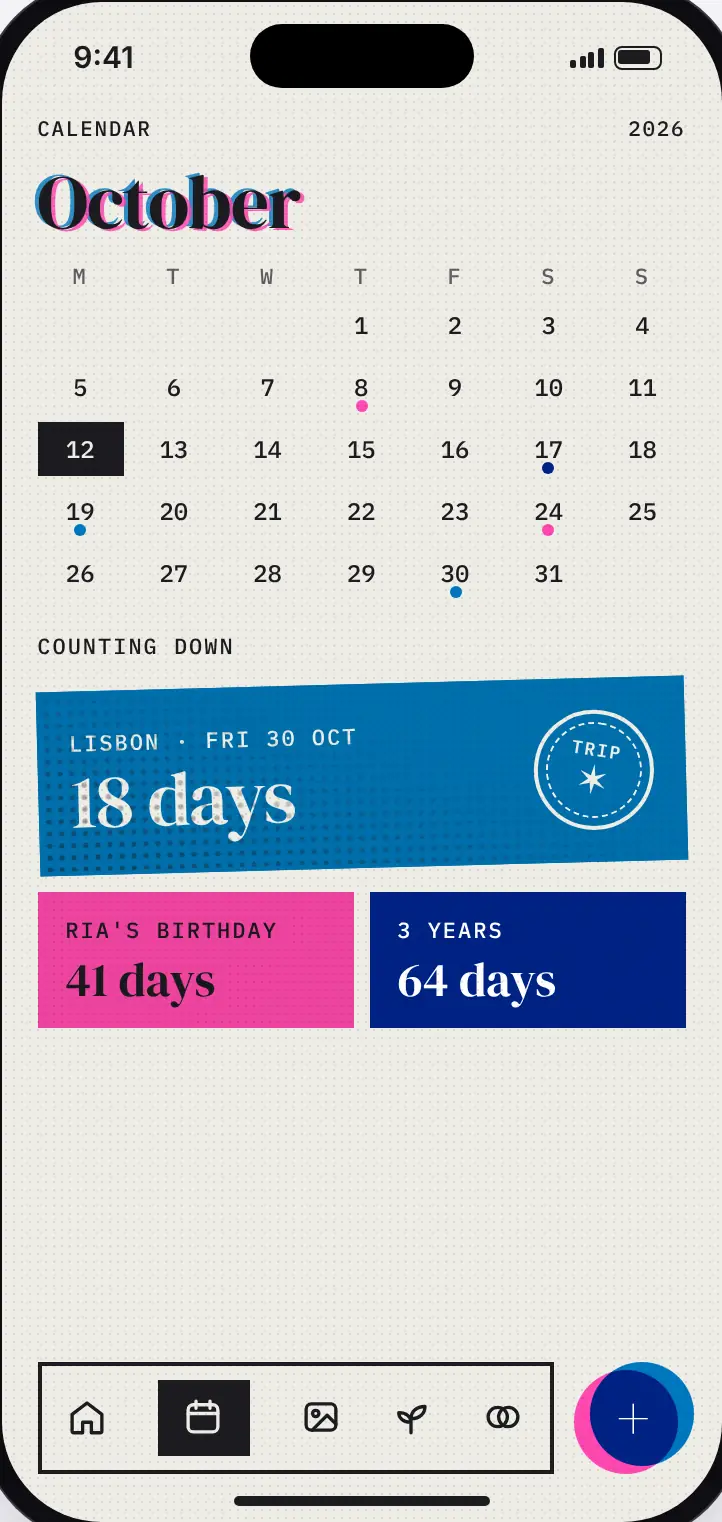
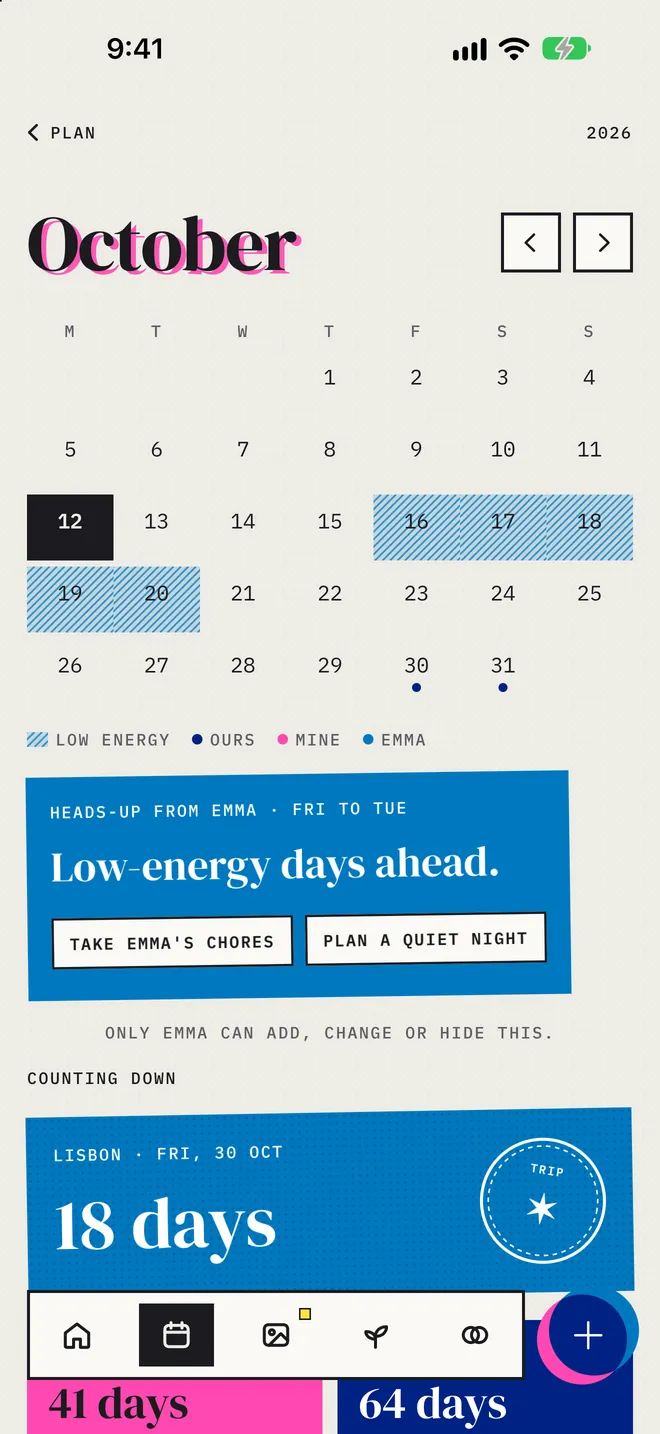
Use real app screenshots
Replaces the mock screens with real app captures (Jake & Emma), drops
the 'Screens from the design' label and the screens that had no real
capture yet, renames the example couple to match, and regenerates the
social image.

Claude-Session: https://claude.ai/code/session_01V7NwzhAa3YHPEejGS6mrdA

diff --git a/index.html b/index.html
@@ -22,7 +22,7 @@
 <link rel="preconnect" href="https://fonts.googleapis.com">
 <link rel="preconnect" href="https://fonts.gstatic.com" crossorigin>
 <link rel="stylesheet" href="https://fonts.googleapis.com/css2?family=DM+Serif+Display:ital@0;1&family=IBM+Plex+Mono:wght@400;500;600&family=Instrument+Sans:wght@400;600&display=swap">
-<link rel="stylesheet" href="styles.css?v=662350d4">
+<link rel="stylesheet" href="styles.css?v=6be5bd44">
 <script>try{var t=localStorage.getItem('pic-theme');if(t==='light'||t==='dark')document.documentElement.dataset.theme=t}catch(e){}</script>
 <script type="application/ld+json">
 {"@context":"https://schema.org","@type":"SoftwareApplication","name":"Partner in Crimes","operatingSystem":"iOS 17 or later","applicationCategory":"LifestyleApplication","description":"An iPhone app for two people building habits together."}
@@ -206,22 +206,15 @@
       <svg class="hero__blob hero__blob--a" aria-hidden="true"><use href="#blob1"/></svg>
       <svg class="hero__blob hero__blob--b" aria-hidden="true"><use href="#blob2"/></svg>
       <figure class="phone phone--back">
-        <picture>
-          <source srcset="img/water-dark.webp" media="(prefers-color-scheme: dark)" data-dark-src>
-          <img src="img/water.webp" alt="" width="722" height="1522">
-        </picture>
+        <img src="img/water.webp" alt="" width="660" height="1434">
       </figure>
       <figure class="phone phone--hero">
         <span class="tape" aria-hidden="true"></span>
-        <picture>
-          <source srcset="img/home-dark.webp" media="(prefers-color-scheme: dark)" data-dark-src>
-          <img src="img/home.webp" alt="Home screen: Jay's and Ria's tasks overlap in the middle, with shared water, today's list, a trip countdown, Biscuit the dog and tonight's wind-down" width="722" height="1522" fetchpriority="high">
-        </picture>
+        <img src="img/home.webp" alt="Home screen: Jake's and Emma's tasks overlap in the middle, with shared water, today's list and a Lisbon countdown" width="660" height="1434" fetchpriority="high">
       </figure>
-      <script>(function(){var t=document.documentElement.dataset.theme;if(!t)return;document.querySelectorAll('[data-dark-src]').forEach(function(s){s.media=t==='dark'?'all':'not all'})})()</script>
       <div class="hnote" aria-hidden="true">
         <svg class="hnote__blob"><use href="#blob2"/></svg>
-        <div><span class="hnote__lab">Nudge from Ria · 14:06</span><b>Sip something, you raisin.</b></div>
+        <div><span class="hnote__lab">Nudge from Emma · 14:06</span><b>Sip something, you raisin.</b></div>
       </div>
       <svg class="hero__plant" viewBox="0 0 120 120" aria-hidden="true"><use href="#pl-monstera"/></svg>
       <svg class="hero__pet" viewBox="0 0 120 120" aria-hidden="true"><use href="#pet-dog"/></svg>
@@ -230,7 +223,7 @@
 </section>
 
 <div class="ticker" aria-hidden="true"><div class="ticker__track" data-ticker>
-  <span>Ria nudged you</span><span>Drink up</span><span>Pothos is thirsty</span><span>Biscuit wants a walk</span><span>3 of 4 shared tasks done</span><span>Wind-down at 22:30</span>
+  <span>Emma nudged you</span><span>Drink up</span><span>Pothos is thirsty</span><span>Biscuit wants a walk</span><span>1 of 2 shared tasks done</span><span>Wind-down at 22:30</span>
 </div></div>
 
 <!-- WHY -->
@@ -308,18 +301,12 @@
     </header>
   </div>
   <div class="rail" data-rail tabindex="0" role="region" aria-label="App screens, scroll sideways">
-    <figure class="shot"><div class="phone"><img src="img/water.webp" alt="Water screen: a solid blue bottle filling to 3.1 of 5 litres, with each partner's amount" width="722" height="1522" loading="lazy"></div><figcaption><b>Water.</b> One bottle for both of you. One tap per sip.</figcaption></figure>
-    <figure class="shot"><div class="phone"><img src="img/plan.webp" alt="Day plan: a printed timetable of tasks coloured by whose they are" width="722" height="1522" loading="lazy"></div><figcaption><b>Plan.</b> Pink is yours, blue is theirs, midnight is both. Private tasks print grey.</figcaption></figure>
-    <figure class="shot"><div class="phone"><img src="img/calendar.webp" alt="Calendar with countdown tickets for a trip and a birthday" width="722" height="1522" loading="lazy"></div><figcaption><b>Countdowns.</b> Trips and birthdays, printed like tickets.</figcaption></figure>
-    <figure class="shot"><div class="phone"><img src="img/photos.webp" alt="Photo calendar with one small duotone photo per day" width="722" height="1522" loading="lazy"></div><figcaption><b>Moments.</b> A photo a day, printed as a duotone. Tap for the original.</figcaption></figure>
-    <figure class="shot"><div class="phone"><img src="img/hideout.webp" alt="The Hideout: a message board of notes in each partner's ink" width="722" height="1522" loading="lazy"></div><figcaption><b>The Hideout.</b> Your private board. Notes, photos and nudges.</figcaption></figure>
-    <figure class="shot"><div class="phone"><img src="img/flat.webp" alt="The flat: a printed room with a dog, a cat, a bird and plants" width="722" height="1522" loading="lazy"></div><figcaption><b>The flat.</b> Everyone you're keeping alive, in one room.</figcaption></figure>
-    <figure class="shot"><div class="phone"><img src="img/games.webp" alt="Games: scores in each partner's ink and a list of quick games" width="722" height="1522" loading="lazy"></div><figcaption><b>Games.</b> Quick ones, scored in your inks.</figcaption></figure>
-    <figure class="shot"><div class="phone"><img src="img/draw.webp" alt="Drawing board: one shared sheet with a heart and a squiggle" width="722" height="1522" loading="lazy"></div><figcaption><b>Drawing board.</b> One shared sheet a day.</figcaption></figure>
-    <figure class="shot"><div class="phone"><img src="img/know.webp" alt="Get to know you: a question card with answer choices" width="722" height="1522" loading="lazy"></div><figcaption><b>Get to know you.</b> A score in percent, never a grade.</figcaption></figure>
-    <figure class="shot"><div class="phone"><img src="img/activity.webp" alt="Activity: two overlapping step rings with a shared total" width="722" height="1522" loading="lazy"></div><figcaption><b>Steps.</b> Two rings. The overlap is the shared part.</figcaption></figure>
+    <figure class="shot"><div class="phone"><img src="img/water.webp" alt="Water screen: a solid blue bottle filling to 3.1 of 5 litres, with Jake's and Emma's amounts" width="660" height="1434" loading="lazy"></div><figcaption><b>Water.</b> One bottle for both of you. One tap per sip.</figcaption></figure>
+    <figure class="shot"><div class="phone"><img src="img/plan.webp" alt="Day plan: a timetable of tasks coloured by whose they are, with a private one in grey" width="660" height="1434" loading="lazy"></div><figcaption><b>Plan.</b> Pink is yours, blue is theirs, midnight is both. Private tasks print grey.</figcaption></figure>
+    <figure class="shot"><div class="phone"><img src="img/calendar.webp" alt="October calendar with a heads-up from Emma and a Lisbon countdown ticket" width="660" height="1434" loading="lazy"></div><figcaption><b>Countdowns.</b> Trips and birthdays, printed like tickets.</figcaption></figure>
+    <figure class="shot"><div class="phone"><img src="img/hideout.webp" alt="The Hideout: notes from Jake in pink and Emma in blue" width="660" height="1434" loading="lazy"></div><figcaption><b>The Hideout.</b> Your private board. Notes, photos and nudges.</figcaption></figure>
+    <figure class="shot"><div class="phone"><img src="img/thanks.webp" alt="Thank-you wall: sticky notes Jake and Emma left each other" width="660" height="1434" loading="lazy"></div><figcaption><b>Thank-you wall.</b> Small thanks, pinned where they'll see them.</figcaption></figure>
   </div>
-  <div class="wrap"><p class="note-small">Screens from the Partner in Crimes design. Names are examples.</p></div>
 </section>
 
 <!-- WORLD -->
@@ -338,7 +325,7 @@
       <li><svg viewBox="0 0 120 120" role="img" aria-label="Goldie, a goldfish"><use href="#pet-fish"/></svg><b>Goldie</b><span>Goldfish</span></li>
     </ul>
     <div class="world__row">
-      <figure class="phone phone--world" data-par="0.07"><img src="img/pet.webp" alt="Biscuit's page: a portrait, a mood stamp, four needs bars and care buttons" width="722" height="1522" loading="lazy"></figure>
+      <figure class="phone phone--world" data-par="0.07"><img src="img/pet.webp" alt="Biscuit's page: a portrait, a mood stamp, four needs bars and care buttons" width="660" height="1434" loading="lazy"></figure>
       <div class="plants">
         <p class="lab">Plus ten plants</p>
         <div class="plants__row">
@@ -348,7 +335,7 @@
         </div>
         <p class="body">Each one grows through three sizes. A long streak shows up as a fuller plant.</p>
       </div>
-      <figure class="phone phone--world phone--tilt" data-par="-0.07"><img src="img/greenhouse.webp" alt="The greenhouse: plants on printed shelves, locked ones shown as outlines" width="722" height="1522" loading="lazy"></figure>
+      <figure class="phone phone--world phone--tilt" data-par="-0.07"><img src="img/flat.webp" alt="The flat: a room with Biscuit, Mochi, Pip and plants, each tagged with what they need" width="660" height="1434" loading="lazy"></figure>
     </div>
   </div>
 </section>
@@ -377,8 +364,8 @@
       </div>
     </div>
     <div class="night__art">
-      <figure class="phone phone--night-a" data-par="0.09"><img src="img/night-write.webp" alt="Writing screen: a shared timer at 07:48 and both word counts" width="722" height="1522" loading="lazy"></figure>
-      <figure class="phone phone--night-b" data-par="-0.07"><img src="img/night-after.webp" alt="After writing: lights out, word counts, and words you both used" width="722" height="1522" loading="lazy"></figure>
+      <figure class="phone phone--night-a" data-par="0.09"><img src="img/night-write.webp" alt="Writing screen: one timer started together, with both word counts and tonight's prompt" width="660" height="1434" loading="lazy"></figure>
+      <figure class="phone phone--night-b" data-par="-0.07"><img src="img/night-after.webp" alt="Lights out: both wrote for 15 minutes, with word counts, moods and the words you both used" width="660" height="1434" loading="lazy"></figure>
     </div>
   </div>
 </section>
@@ -428,7 +415,7 @@
       </div>
       <p class="get__status" role="status" data-share-status></p>
     </div>
-    <figure class="phone phone--get" data-par="-0.08"><span class="tape" aria-hidden="true"></span><img src="img/streak.webp" alt="Streak card: a poster with the shared day count in the overlap of two inks" width="722" height="1522" loading="lazy"></figure>
+    <figure class="phone phone--get" data-par="-0.08"><span class="tape" aria-hidden="true"></span><img src="img/us.webp" alt="Jake and Emma's page with a 23 day streak" width="660" height="1434" loading="lazy"></figure>
   </div>
 </section>
 
@@ -454,6 +441,6 @@
   </div>
 </footer>
 
-<script src="main.js?v=662350d4" defer></script>
+<script src="main.js?v=6be5bd44" defer></script>
 </body>
 </html>

diff --git a/index.src.html b/index.src.html
@@ -22,7 +22,7 @@
 <link rel="preconnect" href="https://fonts.googleapis.com">
 <link rel="preconnect" href="https://fonts.gstatic.com" crossorigin>
 <link rel="stylesheet" href="https://fonts.googleapis.com/css2?family=DM+Serif+Display:ital@0;1&family=IBM+Plex+Mono:wght@400;500;600&family=Instrument+Sans:wght@400;600&display=swap">
-<link rel="stylesheet" href="styles.css?v=662350d4">
+<link rel="stylesheet" href="styles.css?v=6be5bd44">
 <script>try{var t=localStorage.getItem('pic-theme');if(t==='light'||t==='dark')document.documentElement.dataset.theme=t}catch(e){}</script>
 <script type="application/ld+json">
 {"@context":"https://schema.org","@type":"SoftwareApplication","name":"Partner in Crimes","operatingSystem":"iOS 17 or later","applicationCategory":"LifestyleApplication","description":"An iPhone app for two people building habits together."}
@@ -71,22 +71,15 @@
       <svg class="hero__blob hero__blob--a" aria-hidden="true"><use href="#blob1"/></svg>
       <svg class="hero__blob hero__blob--b" aria-hidden="true"><use href="#blob2"/></svg>
       <figure class="phone phone--back">
-        <picture>
-          <source srcset="img/water-dark.webp" media="(prefers-color-scheme: dark)" data-dark-src>
-          <img src="img/water.webp" alt="" width="722" height="1522">
-        </picture>
+        <img src="img/water.webp" alt="" width="660" height="1434">
       </figure>
       <figure class="phone phone--hero">
         <span class="tape" aria-hidden="true"></span>
-        <picture>
-          <source srcset="img/home-dark.webp" media="(prefers-color-scheme: dark)" data-dark-src>
-          <img src="img/home.webp" alt="Home screen: Jay's and Ria's tasks overlap in the middle, with shared water, today's list, a trip countdown, Biscuit the dog and tonight's wind-down" width="722" height="1522" fetchpriority="high">
-        </picture>
+        <img src="img/home.webp" alt="Home screen: Jake's and Emma's tasks overlap in the middle, with shared water, today's list and a Lisbon countdown" width="660" height="1434" fetchpriority="high">
       </figure>
-      <script>(function(){var t=document.documentElement.dataset.theme;if(!t)return;document.querySelectorAll('[data-dark-src]').forEach(function(s){s.media=t==='dark'?'all':'not all'})})()</script>
       <div class="hnote" aria-hidden="true">
         <svg class="hnote__blob"><use href="#blob2"/></svg>
-        <div><span class="hnote__lab">Nudge from Ria · 14:06</span><b>Sip something, you raisin.</b></div>
+        <div><span class="hnote__lab">Nudge from Emma · 14:06</span><b>Sip something, you raisin.</b></div>
       </div>
       <svg class="hero__plant" viewBox="0 0 120 120" aria-hidden="true"><use href="#pl-monstera"/></svg>
       <svg class="hero__pet" viewBox="0 0 120 120" aria-hidden="true"><use href="#pet-dog"/></svg>
@@ -95,7 +88,7 @@
 </section>
 
 <div class="ticker" aria-hidden="true"><div class="ticker__track" data-ticker>
-  <span>Ria nudged you</span><span>Drink up</span><span>Pothos is thirsty</span><span>Biscuit wants a walk</span><span>3 of 4 shared tasks done</span><span>Wind-down at 22:30</span>
+  <span>Emma nudged you</span><span>Drink up</span><span>Pothos is thirsty</span><span>Biscuit wants a walk</span><span>1 of 2 shared tasks done</span><span>Wind-down at 22:30</span>
 </div></div>
 
 <!-- WHY -->
@@ -173,18 +166,12 @@
     </header>
   </div>
   <div class="rail" data-rail tabindex="0" role="region" aria-label="App screens, scroll sideways">
-    <figure class="shot"><div class="phone"><img src="img/water.webp" alt="Water screen: a solid blue bottle filling to 3.1 of 5 litres, with each partner's amount" width="722" height="1522" loading="lazy"></div><figcaption><b>Water.</b> One bottle for both of you. One tap per sip.</figcaption></figure>
-    <figure class="shot"><div class="phone"><img src="img/plan.webp" alt="Day plan: a printed timetable of tasks coloured by whose they are" width="722" height="1522" loading="lazy"></div><figcaption><b>Plan.</b> Pink is yours, blue is theirs, midnight is both. Private tasks print grey.</figcaption></figure>
-    <figure class="shot"><div class="phone"><img src="img/calendar.webp" alt="Calendar with countdown tickets for a trip and a birthday" width="722" height="1522" loading="lazy"></div><figcaption><b>Countdowns.</b> Trips and birthdays, printed like tickets.</figcaption></figure>
-    <figure class="shot"><div class="phone"><img src="img/photos.webp" alt="Photo calendar with one small duotone photo per day" width="722" height="1522" loading="lazy"></div><figcaption><b>Moments.</b> A photo a day, printed as a duotone. Tap for the original.</figcaption></figure>
-    <figure class="shot"><div class="phone"><img src="img/hideout.webp" alt="The Hideout: a message board of notes in each partner's ink" width="722" height="1522" loading="lazy"></div><figcaption><b>The Hideout.</b> Your private board. Notes, photos and nudges.</figcaption></figure>
-    <figure class="shot"><div class="phone"><img src="img/flat.webp" alt="The flat: a printed room with a dog, a cat, a bird and plants" width="722" height="1522" loading="lazy"></div><figcaption><b>The flat.</b> Everyone you're keeping alive, in one room.</figcaption></figure>
-    <figure class="shot"><div class="phone"><img src="img/games.webp" alt="Games: scores in each partner's ink and a list of quick games" width="722" height="1522" loading="lazy"></div><figcaption><b>Games.</b> Quick ones, scored in your inks.</figcaption></figure>
-    <figure class="shot"><div class="phone"><img src="img/draw.webp" alt="Drawing board: one shared sheet with a heart and a squiggle" width="722" height="1522" loading="lazy"></div><figcaption><b>Drawing board.</b> One shared sheet a day.</figcaption></figure>
-    <figure class="shot"><div class="phone"><img src="img/know.webp" alt="Get to know you: a question card with answer choices" width="722" height="1522" loading="lazy"></div><figcaption><b>Get to know you.</b> A score in percent, never a grade.</figcaption></figure>
-    <figure class="shot"><div class="phone"><img src="img/activity.webp" alt="Activity: two overlapping step rings with a shared total" width="722" height="1522" loading="lazy"></div><figcaption><b>Steps.</b> Two rings. The overlap is the shared part.</figcaption></figure>
+    <figure class="shot"><div class="phone"><img src="img/water.webp" alt="Water screen: a solid blue bottle filling to 3.1 of 5 litres, with Jake's and Emma's amounts" width="660" height="1434" loading="lazy"></div><figcaption><b>Water.</b> One bottle for both of you. One tap per sip.</figcaption></figure>
+    <figure class="shot"><div class="phone"><img src="img/plan.webp" alt="Day plan: a timetable of tasks coloured by whose they are, with a private one in grey" width="660" height="1434" loading="lazy"></div><figcaption><b>Plan.</b> Pink is yours, blue is theirs, midnight is both. Private tasks print grey.</figcaption></figure>
+    <figure class="shot"><div class="phone"><img src="img/calendar.webp" alt="October calendar with a heads-up from Emma and a Lisbon countdown ticket" width="660" height="1434" loading="lazy"></div><figcaption><b>Countdowns.</b> Trips and birthdays, printed like tickets.</figcaption></figure>
+    <figure class="shot"><div class="phone"><img src="img/hideout.webp" alt="The Hideout: notes from Jake in pink and Emma in blue" width="660" height="1434" loading="lazy"></div><figcaption><b>The Hideout.</b> Your private board. Notes, photos and nudges.</figcaption></figure>
+    <figure class="shot"><div class="phone"><img src="img/thanks.webp" alt="Thank-you wall: sticky notes Jake and Emma left each other" width="660" height="1434" loading="lazy"></div><figcaption><b>Thank-you wall.</b> Small thanks, pinned where they'll see them.</figcaption></figure>
   </div>
-  <div class="wrap"><p class="note-small">Screens from the Partner in Crimes design. Names are examples.</p></div>
 </section>
 
 <!-- WORLD -->
@@ -203,7 +190,7 @@
       <li><svg viewBox="0 0 120 120" role="img" aria-label="Goldie, a goldfish"><use href="#pet-fish"/></svg><b>Goldie</b><span>Goldfish</span></li>
     </ul>
     <div class="world__row">
-      <figure class="phone phone--world" data-par="0.07"><img src="img/pet.webp" alt="Biscuit's page: a portrait, a mood stamp, four needs bars and care buttons" width="722" height="1522" loading="lazy"></figure>
+      <figure class="phone phone--world" data-par="0.07"><img src="img/pet.webp" alt="Biscuit's page: a portrait, a mood stamp, four needs bars and care buttons" width="660" height="1434" loading="lazy"></figure>
       <div class="plants">
         <p class="lab">Plus ten plants</p>
         <div class="plants__row">
@@ -213,7 +200,7 @@
         </div>
         <p class="body">Each one grows through three sizes. A long streak shows up as a fuller plant.</p>
       </div>
-      <figure class="phone phone--world phone--tilt" data-par="-0.07"><img src="img/greenhouse.webp" alt="The greenhouse: plants on printed shelves, locked ones shown as outlines" width="722" height="1522" loading="lazy"></figure>
+      <figure class="phone phone--world phone--tilt" data-par="-0.07"><img src="img/flat.webp" alt="The flat: a room with Biscuit, Mochi, Pip and plants, each tagged with what they need" width="660" height="1434" loading="lazy"></figure>
     </div>
   </div>
 </section>
@@ -242,8 +229,8 @@
       </div>
     </div>
     <div class="night__art">
-      <figure class="phone phone--night-a" data-par="0.09"><img src="img/night-write.webp" alt="Writing screen: a shared timer at 07:48 and both word counts" width="722" height="1522" loading="lazy"></figure>
-      <figure class="phone phone--night-b" data-par="-0.07"><img src="img/night-after.webp" alt="After writing: lights out, word counts, and words you both used" width="722" height="1522" loading="lazy"></figure>
+      <figure class="phone phone--night-a" data-par="0.09"><img src="img/night-write.webp" alt="Writing screen: one timer started together, with both word counts and tonight's prompt" width="660" height="1434" loading="lazy"></figure>
+      <figure class="phone phone--night-b" data-par="-0.07"><img src="img/night-after.webp" alt="Lights out: both wrote for 15 minutes, with word counts, moods and the words you both used" width="660" height="1434" loading="lazy"></figure>
     </div>
   </div>
 </section>
@@ -293,7 +280,7 @@
       </div>
       <p class="get__status" role="status" data-share-status></p>
     </div>
-    <figure class="phone phone--get" data-par="-0.08"><span class="tape" aria-hidden="true"></span><img src="img/streak.webp" alt="Streak card: a poster with the shared day count in the overlap of two inks" width="722" height="1522" loading="lazy"></figure>
+    <figure class="phone phone--get" data-par="-0.08"><span class="tape" aria-hidden="true"></span><img src="img/us.webp" alt="Jake and Emma's page with a 23 day streak" width="660" height="1434" loading="lazy"></figure>
   </div>
 </section>
 
@@ -319,6 +306,6 @@
   </div>
 </footer>
 
-<script src="main.js?v=662350d4" defer></script>
+<script src="main.js?v=6be5bd44" defer></script>
 </body>
 </html>

diff --git a/privacy.html b/privacy.html
@@ -13,7 +13,7 @@
 <link rel="preconnect" href="https://fonts.googleapis.com">
 <link rel="preconnect" href="https://fonts.gstatic.com" crossorigin>
 <link rel="stylesheet" href="https://fonts.googleapis.com/css2?family=DM+Serif+Display:ital@0;1&family=IBM+Plex+Mono:wght@400;500;600&family=Instrument+Sans:wght@400;600&display=swap">
-<link rel="stylesheet" href="styles.css?v=662350d4">
+<link rel="stylesheet" href="styles.css?v=6be5bd44">
 <script>try{var t=localStorage.getItem('pic-theme');if(t==='light'||t==='dark')document.documentElement.dataset.theme=t}catch(e){}</script>
 </head>
 <body class="docpage">
@@ -106,6 +106,6 @@
     <nav aria-label="Footer"><a href="./">Home</a><a href="privacy.html">Privacy</a><a href="support.html">Support</a></nav>
   </div>
 </footer>
-<script src="theme.js?v=662350d4" defer></script>
+<script src="theme.js?v=6be5bd44" defer></script>
 </body>
 </html>

diff --git a/support.html b/support.html
@@ -13,7 +13,7 @@
 <link rel="preconnect" href="https://fonts.googleapis.com">
 <link rel="preconnect" href="https://fonts.gstatic.com" crossorigin>
 <link rel="stylesheet" href="https://fonts.googleapis.com/css2?family=DM+Serif+Display:ital@0;1&family=IBM+Plex+Mono:wght@400;500;600&family=Instrument+Sans:wght@400;600&display=swap">
-<link rel="stylesheet" href="styles.css?v=662350d4">
+<link rel="stylesheet" href="styles.css?v=6be5bd44">
 <script>try{var t=localStorage.getItem('pic-theme');if(t==='light'||t==='dark')document.documentElement.dataset.theme=t}catch(e){}</script>
 </head>
 <body class="docpage">
@@ -69,6 +69,6 @@
     <nav aria-label="Footer"><a href="./">Home</a><a href="privacy.html">Privacy</a><a href="support.html">Support</a></nav>
   </div>
 </footer>
-<script src="theme.js?v=662350d4" defer></script>
+<script src="theme.js?v=6be5bd44" defer></script>
 </body>
 </html>

diff --git a/styles.css b/styles.css
@@ -116,7 +116,7 @@ ol,ul{padding:0;list-style:none}
 
 /* phones */
 .phone{position:relative;border-radius:15% / 7.1%;background:#0E0D12;padding:3.2%;box-shadow:0 0 0 1.5px #3A3842}
-.phone img{width:100%;aspect-ratio:722/1522;border-radius:13.4% / 6.36%}
+.phone img{width:100%;aspect-ratio:660/1434;border-radius:13.4% / 6.36%}
 .phone--hero{width:var(--pw);rotate:-3deg;z-index:2;margin-right:22%;box-shadow:0 0 0 1.5px #3A3842,14px 14px 0 color-mix(in srgb,var(--blue) 85%,transparent)}
 
 /* ticker */

diff --git a/build_docs.py b/build_docs.py
@@ -14,7 +14,7 @@ SHELL = '''<!doctype html>
 <link rel="preconnect" href="https://fonts.googleapis.com">
 <link rel="preconnect" href="https://fonts.gstatic.com" crossorigin>
 <link rel="stylesheet" href="https://fonts.googleapis.com/css2?family=DM+Serif+Display:ital@0;1&family=IBM+Plex+Mono:wght@400;500;600&family=Instrument+Sans:wght@400;600&display=swap">
-<link rel="stylesheet" href="styles.css?v=662350d4">
+<link rel="stylesheet" href="styles.css?v=6be5bd44">
 <script>try{{var t=localStorage.getItem('pic-theme');if(t==='light'||t==='dark')document.documentElement.dataset.theme=t}}catch(e){{}}</script>
 </head>
 <body class="docpage">
@@ -52,7 +52,7 @@ SHELL = '''<!doctype html>
     <nav aria-label="Footer"><a href="./">Home</a><a href="privacy.html">Privacy</a><a href="support.html">Support</a></nav>
   </div>
 </footer>
-<script src="theme.js?v=662350d4" defer></script>
+<script src="theme.js?v=6be5bd44" defer></script>
 </body>
 </html>
 '''
